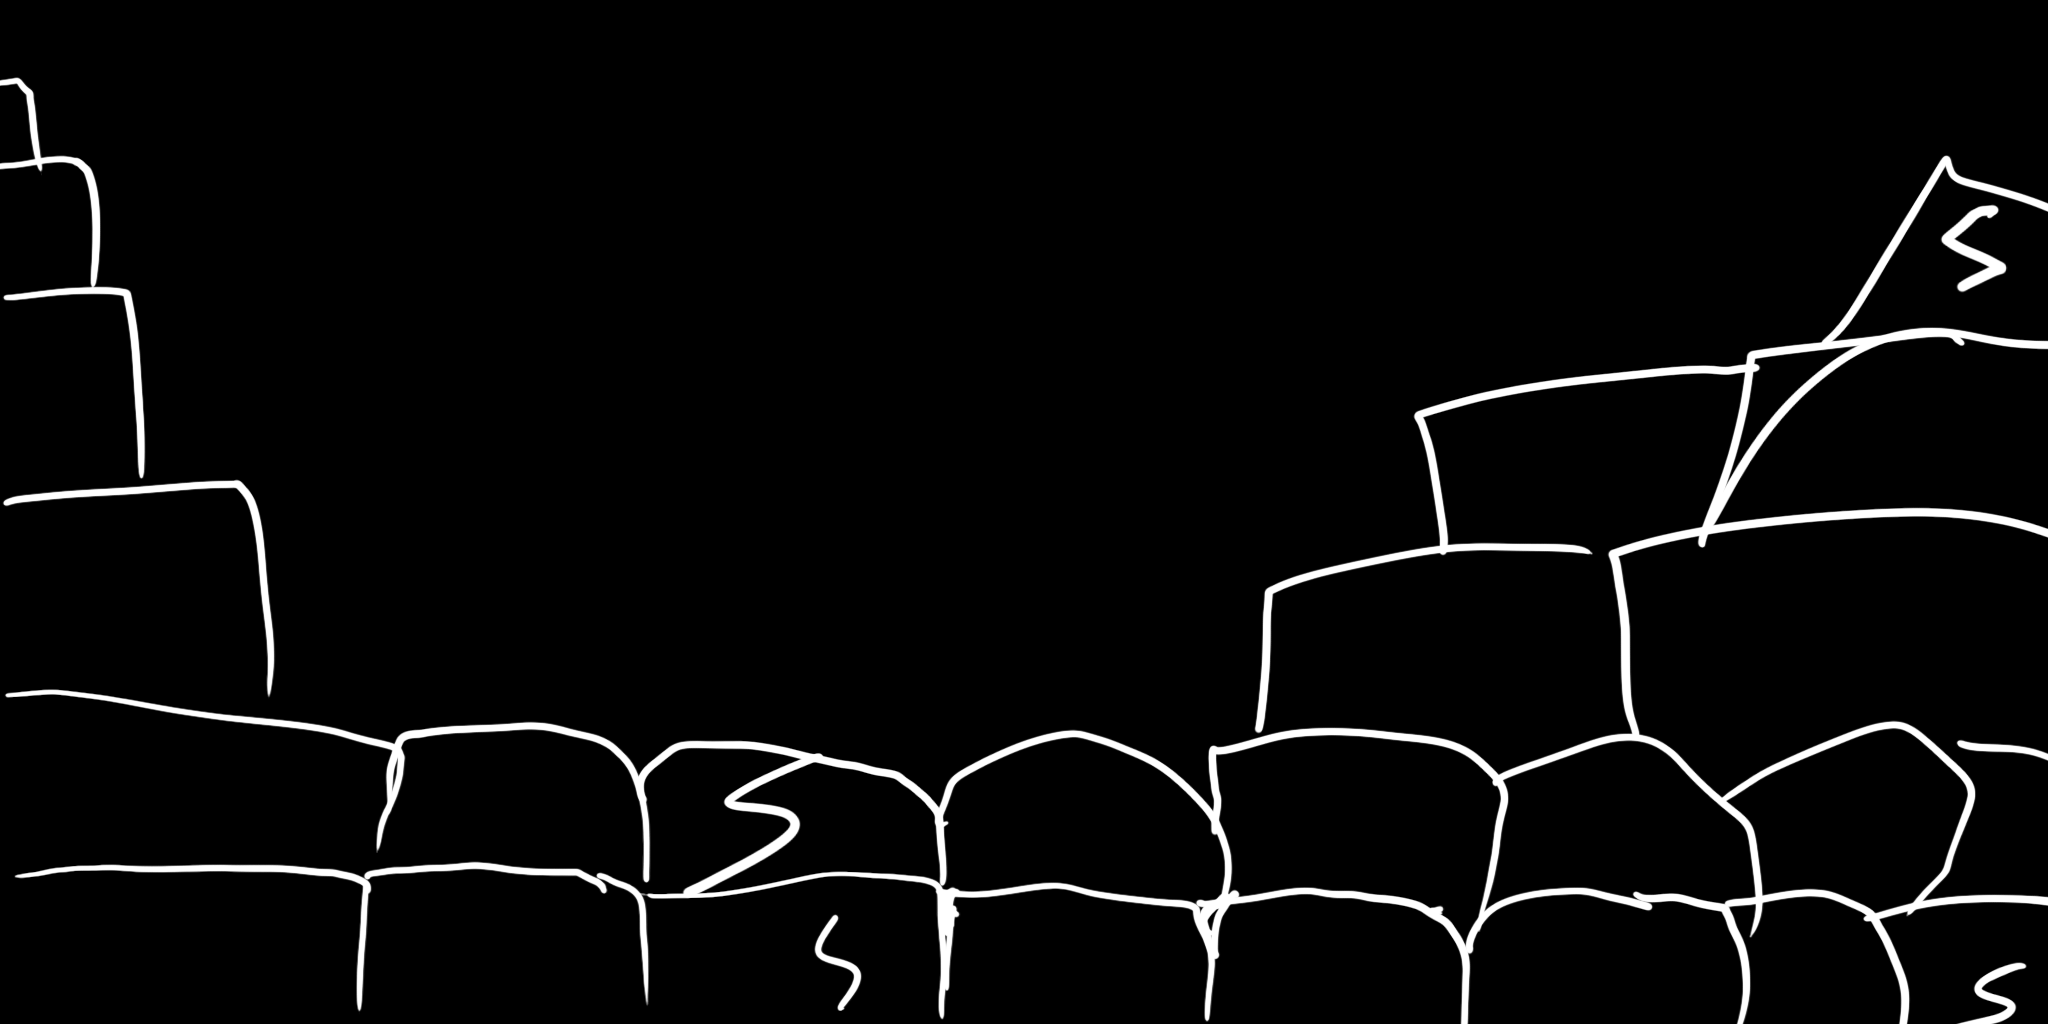
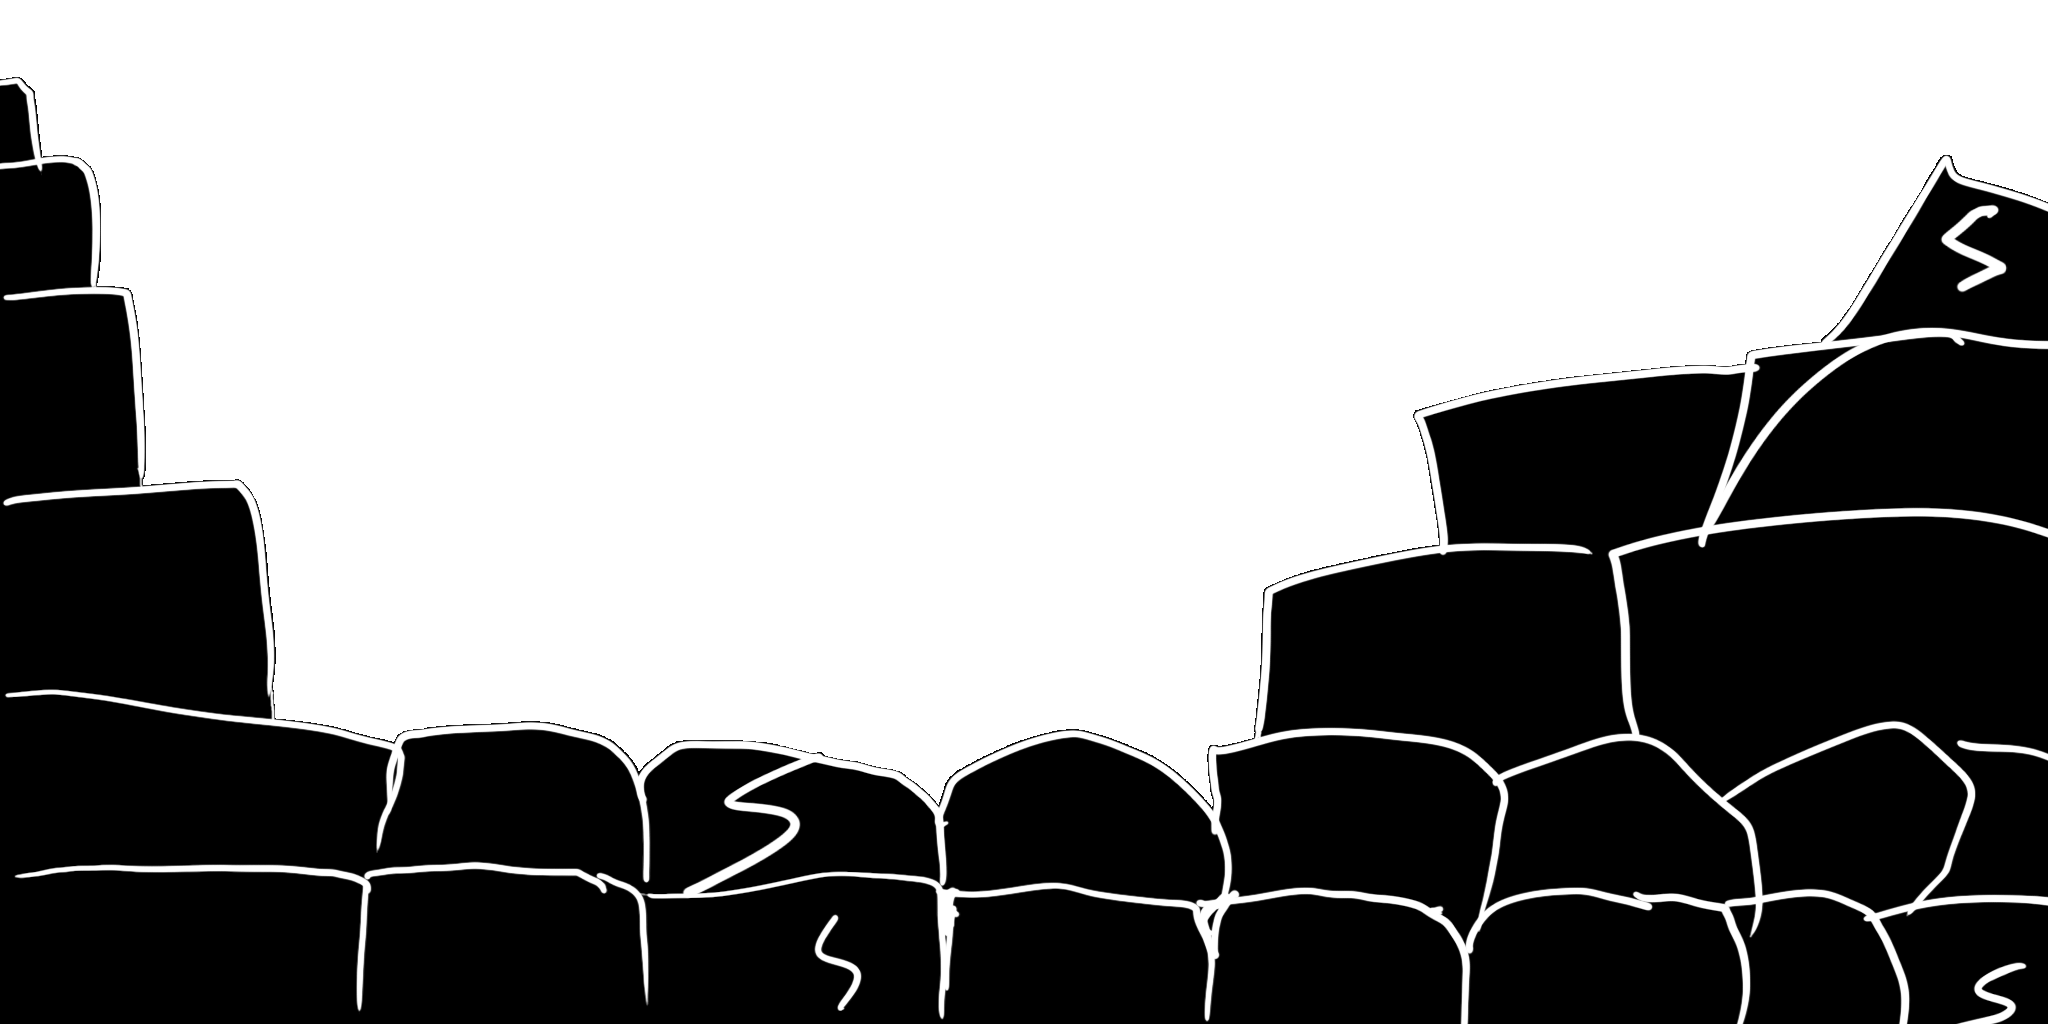
drop in the latest john souls drawing, add tube as turban

diff --git a/src/main.js b/src/main.js
@@ -171,15 +171,23 @@ scene.add(johnSoulsMesh);
 //const johnSoulsHelper = new THREE.BoxHelper(johnSoulsMesh);
 //scene.add(johnSoulsHelper);
 
+const hatSize = 8;
 const JohnHat = new THREE.Mesh(
-	new THREE.PlaneBufferGeometry(8, 8),
-	new THREE.MeshBasicMaterial({
+	new THREE.CylinderBufferGeometry(0.4, hatSize * 0.5, hatSize * 0.5, 32, 16, true),
+	new THREE.MeshNormalMaterial({
+		wireframe: true,
 		color: 0xff0000,
 	}),
 )
-JohnHat.position.set(0, 9, -1);
-JohnHat.rotation.z = Math.PI / 4;
+JohnHat.position.copy(johnSoulsMesh.position);
+JohnHat.position.z += hatSize * 0.375;
+JohnHat.position.y += hatSize * 0.05;
+JohnHat.position.x += hatSize * 0.05;
+JohnHat.rotation.z = Math.PI;
 johnSoulsMesh.add(JohnHat);
+
+//camera.position.set(10, 1, 0);
+//camera.lookAt(johnSoulsMesh.position);
 
 const wallSize = 20;
 const groundSize = 13;
@@ -204,8 +212,6 @@ const wallPlane = new THREE.Mesh(
 		//color: 0x555555,
 		map: new THREE.TextureLoader().load(wallImageURL),
 		transparent: true,
-		opacity: 0.8,
-		blending: THREE.AdditiveBlending,
 	})
 );
 wallPlane.position.z = -groundSize / 2;
